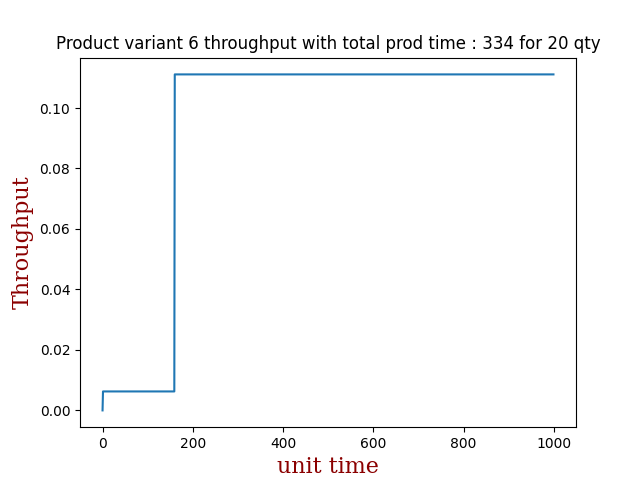
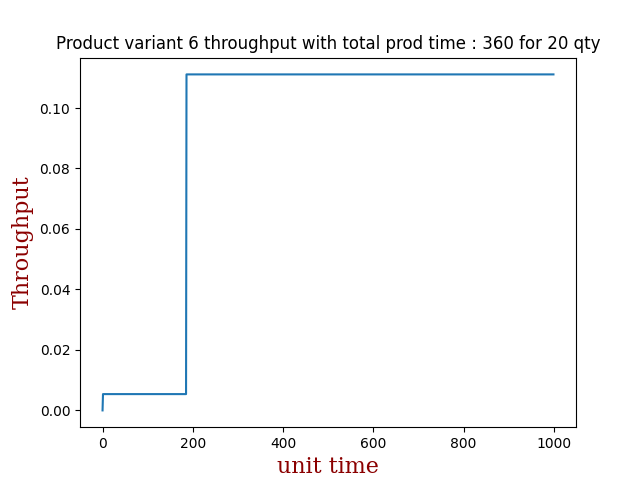
Bug solved in djiktra's fintess caluclation of total length: earlier default weight was used to calculate the shortest distance

Changed region(s): [[0.1562, 0.1562, 0.3125, 0.8438], [0.75, 0.0625, 0.8438, 0.125], [0.9062, 0.0625, 0.9375, 0.125]]

diff --git a/Fitness_Function.py b/Fitness_Function.py
@@ -1,3 +1,5 @@
+from collections import Counter
+
 import networkx as nx
 
 from Func_weighted_spanning_tree import euclidean_dist
@@ -6,13 +8,22 @@ from Func_weighted_spanning_tree import euclidean_dist
 def fitness_function(T, batch_list, PI_weight,pos):
     PI_cost = []
     EU_cost = []
+    e_list = T.edges()
+    width_dict = Counter(T.edges())
 
+    edge_dict = [(u, v, {'weight': euclidean_dist(pos[u][0], pos[u][1], pos[v][0], pos[v][1]), 'Flow': value})
+                 for ((u, v), value) in width_dict.items()]
+
+    Weighted_T = nx.MultiGraph()
+    Weighted_T.add_nodes_from(T.nodes())
+    Weighted_T.add_edges_from(edge_dict)
+    #print(Weighted_T.edges.data())
     for i in range(len(batch_list)):
         cost = 0.0
         cost2 = 0.0
         for j in range(len(batch_list[i]) - 1):
             #print(f"source{batch_list[i][j]}and target {batch_list[i][j + 1]}")
-            cost += nx.dijkstra_path_length(T, batch_list[i][j], batch_list[i][j + 1])
+            cost += nx.dijkstra_path_length(Weighted_T, batch_list[i][j], batch_list[i][j + 1])
             cost2 += euclidean_dist(pos[batch_list[i][j]][0],pos[batch_list[i][j]][1],pos[batch_list[i][j+1]][0], pos[batch_list[i][j+1]][1])
 
 
